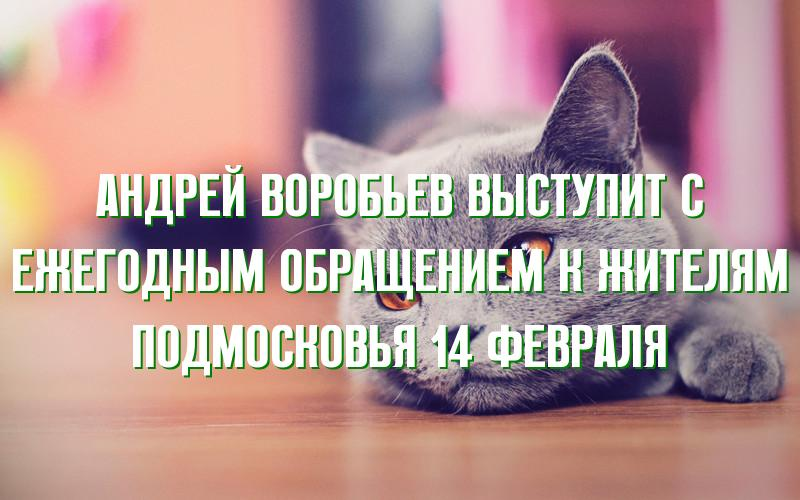
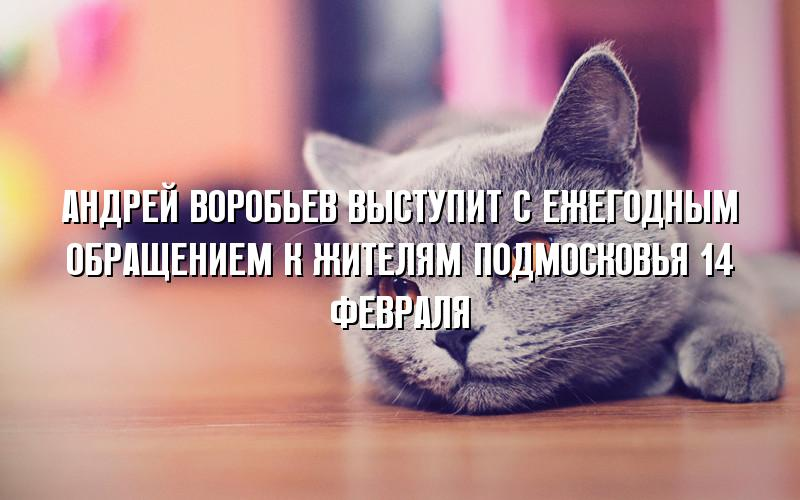
font_size automated now

Changed region(s): [[0.0, 0.33, 1.0, 0.75]]

diff --git a/draw_image/draw.py b/draw_image/draw.py
@@ -5,7 +5,7 @@ import textwrap
 
 
 def draw_on_image(image_path, image_save_path, font_path, text_to_draw,
-                  shadowcolor='black', spacing=15, font_size=70):
+                  shadowcolor='black', spacing=15):
     """
     Рисуем на изображении буквы
     :param image_path: str - Путь до изображения которое открываем
@@ -14,7 +14,6 @@ def draw_on_image(image_path, image_save_path, font_path, text_to_draw,
     :param text_to_draw: str - Что пишем собственно говоря
     :param shadowcolor: str - Цвет обводки
     :param spacing: int - Пробелы между строками
-    :param font_size: int - Размер шрифта
     :return:
     """
 
@@ -22,11 +21,25 @@ def draw_on_image(image_path, image_save_path, font_path, text_to_draw,
     img = Image.open(image_path)
     # Получаем размеры
     img_width, img_height = img.size
-    # Выбираем шрифт
-    font = ImageFont.truetype(font_path, font_size)
     # Cплитим на линии чтобы красиво было
-    lines = textwrap.wrap(text_to_draw, width=30)
-    # И соединяем с символом новой строки
+    lines = textwrap.wrap(text_to_draw, width=40)
+    # Получаем индекс самого длинного текста в строке
+    longest_elem_idx = lines.index(max(lines, key=len))
+    # Изначальный размер шрифта, потом будем повышать
+    font_size = 1
+    # Часть изображения в которой должен поместиться текст
+    img_fraction = 0.85
+    # Выбираем шрифт, дальше будем его повышать
+    font = ImageFont.truetype(font_path, font_size)
+    # Смотрим по длине первой линии
+    while font.getsize(lines[longest_elem_idx])[0] < img_fraction * img_width:
+        font_size += 1
+        font = ImageFont.truetype(font_path, font_size)
+    # Уменьшаем на 1 чтобы точно влез
+    font_size -= 1
+    # Ставим финальный шрифт с финальным размером
+    font = ImageFont.truetype(font_path, font_size)
+    # Соединяем лист строк в одну через символ новой строки для того чтобы его "нарисовать"
     splitted_text = '\n'.join(lines)
     # Готовим его к тому чтобы рисовать
     draw = ImageDraw.Draw(img)
@@ -47,6 +60,5 @@ if __name__ == "__main__":
                   image_save_path='sample_with_text.jpg',
                   font_path='reforma_grotesk_bold.ttf',
                   text_to_draw='АНДРЕЙ ВОРОБЬЕВ ВЫСТУПИТ С ЕЖЕГОДНЫМ ОБРАЩЕНИЕМ К ЖИТЕЛЯМ ПОДМОСКОВЬЯ 14 ФЕВРАЛЯ',
-                  shadowcolor='green',
-                  spacing=20,
-                  font_size=60)
+                  shadowcolor='black',
+                  spacing=10)
